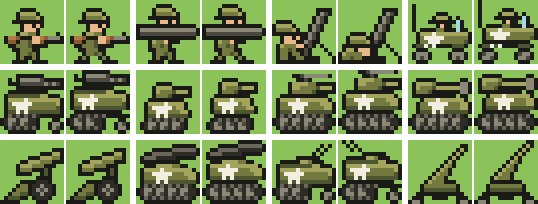
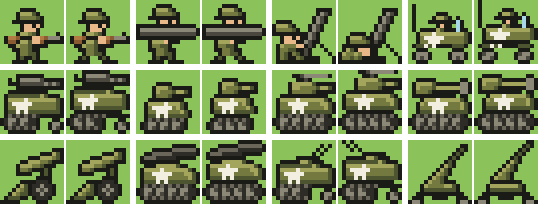
Wider roads, unit shadows and US unit shading
Roads are now 10 pixels wide. Every unit sprite casts a shadow to the
lower right, drawn in the game so it stays on the right when a sprite
is mirrored. US land sprites are lit on top and shaded on the right of
their team-colored body, matching the terrain's light.

diff --git a/src/game/MapScene.ts b/src/game/MapScene.ts
@@ -36,6 +36,9 @@ const MOVE_MS_PER_TILE = 70;
 const RANGE_COLORS: Record<RangeKind, ColorKey> = { move: "rangeMove", inspect: "rangeInspect", attack: "rangeAttack" };
 const MENU = { pad: 3, itemHeight: GLYPH_HEIGHT + 4 };
 const IDLE_FRAMES_PER_SECOND = 3;
+/** Unit shadows fall to the lower right, like the terrain's (08-art-pipeline §16). */
+const UNIT_SHADOW_OFFSET = { x: 2, y: 1 };
+const UNIT_SHADOW_ALPHA = 0.35;
 const unitSheetKey = (sheet: number) => `pack-units-${sheet}`;
 const TERRAIN_SHEET_KEY = "pack-terrain";
 const PROPERTY_SHEET_KEY = "pack-properties";
@@ -627,6 +630,8 @@ export class MapScene extends Phaser.Scene implements MapView {
 
     for (const unit of this.state.units) {
       const sprite = this.add.container(unit.pos.x * TILE_SIZE, unit.pos.y * TILE_SIZE);
+      const shadow = this.unitShadow(unit);
+      if (shadow) sprite.add(shadow);
       sprite.add(this.unitImage(unit));
 
       const hp = displayHp(unit.hp);
@@ -662,15 +667,37 @@ export class MapScene extends Phaser.Scene implements MapView {
       return marker.setOrigin(0).setAlpha(unit.hasActed ? 0.5 : 1);
     }
     const key = unitSheetKey(art.sheet);
-    const firstFrame = art.row * art.frames;
-    const sprite = this.add.sprite(0, 0, key, firstFrame).setOrigin(0).setFlipX(player?.facing === "left");
+    const sprite = this.add.sprite(0, 0, key, art.row * art.frames).setOrigin(0).setFlipX(player?.facing === "left");
     if (unit.hasActed) return sprite.setAlpha(0.5);
+    return sprite.play(this.idleAnimation(key, art));
+  }
+
+  /**
+   * A dark copy of the unit's sprite, offset to the lower right. Drawn in the game rather than in the
+   * sheet so it still falls to the right when the sprite is mirrored. Placeholder markers have none.
+   */
+  private unitShadow(unit: Unit): Phaser.GameObjects.Sprite | null {
+    const player = this.state.players[unit.owner];
+    const art = player ? findUnitArt(activePack(), player.nation, unit.owner, unit.type) : null;
+    if (!art || !this.textures.exists(unitSheetKey(art.sheet))) return null;
+    const key = unitSheetKey(art.sheet);
+    const shadow = this.add.sprite(UNIT_SHADOW_OFFSET.x, UNIT_SHADOW_OFFSET.y, key, art.row * art.frames)
+      .setOrigin(0)
+      .setFlipX(player?.facing === "left")
+      .setTint(packColorNumber("unitShadow"))
+      .setTintMode(Phaser.TintModes.FILL)
+      .setAlpha(unit.hasActed ? UNIT_SHADOW_ALPHA / 2 : UNIT_SHADOW_ALPHA);
+    return unit.hasActed ? shadow : shadow.play(this.idleAnimation(key, art));
+  }
+
+  private idleAnimation(key: string, art: { row: number; frames: number }): string {
     const animation = `${key}-row-${art.row}`;
     if (!this.anims.exists(animation)) {
-      const frames = this.anims.generateFrameNumbers(key, { start: firstFrame, end: firstFrame + art.frames - 1 });
+      const first = art.row * art.frames;
+      const frames = this.anims.generateFrameNumbers(key, { start: first, end: first + art.frames - 1 });
       this.anims.create({ key: animation, frames, frameRate: IDLE_FRAMES_PER_SECOND, repeat: -1 });
     }
-    return sprite.play(animation);
+    return animation;
   }
 
   /** Terrain can change in play: a destroyed bunker becomes rubble (02-terrain §4). */

diff --git a/src/game/artPack.ts b/src/game/artPack.ts
@@ -32,6 +32,8 @@ const BUILT_IN_COLORS = {
   blast: "#ffa030",
   labelText: "#ffffff",
   labelOutline: "#101018",
+  // Shadow under unit sprites
+  unitShadow: "#1c3412",
   labelGold: "#f0d040",
   labelGreen: "#80f080",
   labelBlue: "#a0d8ff",

diff --git a/docs/08-art-pipeline.md b/docs/08-art-pipeline.md
@@ -276,7 +276,7 @@ The terrain tiles are pixel grids in `tools/art/terrain.mjs`. `npm run art` rend
 | Terrain | What's drawn |
 |---|---|
 | Plains, Forest, Hills, Bocage, Beach | One of several variants, picked by map position. A cell always gets the same one |
-| Road | The piece matching which sides join a road or bridge |
+| Road | The piece matching which sides join a road or bridge. Roads are 10 pixels wide, most of the tile |
 | River | The piece matching which sides join a river, bridge, sea or reef, so rivers flow into the sea |
 | Bridge | The river piece beneath it, with a deck on top. Water above or below means the deck runs left to right, otherwise top to bottom |
 | Sea, Reef | The water tile, then foam along each side that touches land. A foam corner shows where land touches only diagonally. Rivers, bridges, reefs and the map's edge count as water |
@@ -358,6 +358,8 @@ Terrain and buildings are drawn so the map looks solid rather than flat, using t
 - **Light** comes from the top left. Lit faces are lighter and faces turned away are darker.
 - **Shadows** fall to the lower right, inside the object's own cell. A shadow darkens whatever ground it lands on, so the sheets stay fully opaque on the ground.
 - **What rises:** Forest, Hills, Bocage hedges, Bunker, Rubble, Obstacle and every building. Plains, roads, rivers, bridges, beach, sea and reef stay flat.
+- **Units** stay inside their 16×16 cell. Each one casts a shadow: a dark copy of its sprite, 2 pixels right and 1 down. The game draws it, not the sheet, so it falls to the right even when a unit is mirrored. The shadow color is `unitShadow` in the pack's colors.
+- **Unit shading:** US land sprites are lit on the top edge of their team-colored body and shaded on the right edge. German sprites don't have this yet.
 - **The map's top row:** anything rising from the top row is cut off at the map's edge.
 
 The helpers for this are in `tools/art/depth.mjs`.

diff --git a/docs/00-master-design.md b/docs/00-master-design.md
@@ -299,3 +299,4 @@ UI falls into four categories:
 | 2026-11-06 | Terrain art: variants by map position, 16-piece roads and rivers, bridge decks over rivers, and shore foam layered on sea instead of 47 coastline tiles. Water animates in 2 frames; tiles never overlap the one above (08-art-pipeline §14) |
 | 2026-11-06 | Buildings show their owner by roof and banner color, from a sheet with one column per owner, and replace the corner flag. Buildings draw under range tints; fortifications are terrain tiles (08-art-pipeline §15) |
 | 2026-11-06 | Reversed: tall tiles now rise into the tile behind. Terrain and buildings are 16×32, painted row by row from the top, lit from the top left with shadows to the lower right (08-art-pipeline §16) |
+| 2026-11-06 | Roads widened to 10 pixels. Units cast an in-game shadow to the lower right, so it stays correct when mirrored; US land sprites shaded to match the terrain's light (08-art-pipeline §16) |
